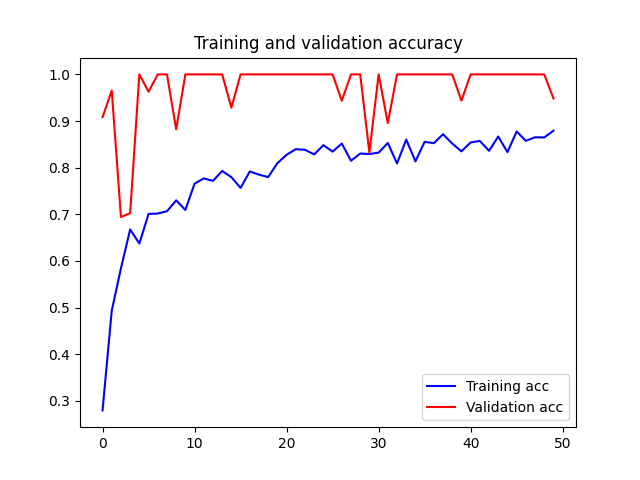
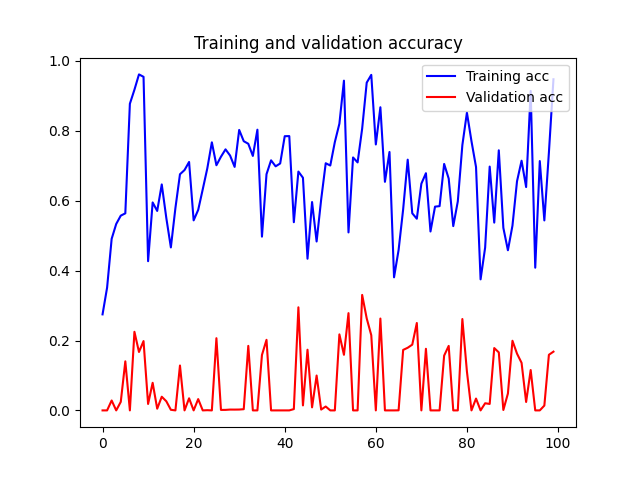
feat: addded inference method

diff --git a/driver.py b/driver.py
@@ -1,14 +1,66 @@
 import time
 import numpy as np
 from matplotlib import pyplot as plt
+from model import MobiFallNet
 
-timestamps = 30
-run_step = 2
+from model import MobiFallNet
+from DataGenerator import MobiFallGenerator
+import os
 
-batch_size = 30
-datadim = 4
-nb_classes = 13
-x_train = np.random.random((batch_size, timestamps, datadim))
+ROOT_DIRECTORY = os.getcwd()
+
+label_map = {
+    'STD': 0,
+    'WAL': 1,
+    'JOG': 2,
+    'JUM': 3,
+    'STU': 4,
+    'STN': 5,
+    'SCH': 6,
+    'CSI': 7,
+    'CSO': 8,
+    'FOL': 9,
+    'FKL': 10,
+    'BSC': 11,
+    'SDL': 12
+}
+
+label_map = list(label_map.keys())
+# ['STD', 'WAL', 'JOG', 'JUM', 'STU', 'STN', 'SCH', 'CSI', 'CSO', 'FOL', 'FKL', 'BSC', 'SDL']
+
+
+SENSOR_TO_TRAIN = ['acc', 'ori', 'gyro']
+
+n_timestamps = 30
+
+run_step = 1
+
+# train the network
+steps_per_epoch = 10
+epochs = 1
+batchsize = steps_per_epoch * epochs
+
+generator = MobiFallGenerator('./dataset/*/*/*/*/*.txt',
+                              train_for=SENSOR_TO_TRAIN[0],
+                              batch_size=batchsize,
+                              extract_data_size=n_timestamps,
+                              istrain=False,
+                              ratio=0.3)
+
+n_features = generator.get_features_count()
+n_category = generator.get_total_categories()
+
+input_shape = (n_timestamps, n_features)
+print("INPUT SHAPE =>{}".format(str(input_shape)))
+
+weights = os.path.join(os.path.join(ROOT_DIRECTORY, 'model'), 'weights.hdf5')
+model = MobiFallNet(input_shape=input_shape, n_outputs=n_category, pretrained_path=weights).get_model()
+
+
+# batch_size = 30
+# datadim = 4
+# nb_classes = 13
+# x_train = np.random.random((batch_size, timestamps, datadim))
 
 
 def update_show_data(data, step, update_data):
@@ -17,12 +69,11 @@ def update_show_data(data, step, update_data):
         data.append(update_data[i])
 
 
-def draw_flow(test_data, test_label):
-    data_size = test_data.shape[0]
-    x = [_ for _ in range(timestamps)]
-    ax = [0 for _ in range(timestamps)]
-    ay = [0 for _ in range(timestamps)]
-    az = [0 for _ in range(timestamps)]
+def draw_flow(test_data, label):
+    x = [_ for _ in range(n_timestamps)]
+    ax = [0 for _ in range(n_timestamps)]
+    ay = [0 for _ in range(n_timestamps)]
+    az = [0 for _ in range(n_timestamps)]
 
     start_time = time.time()
 
@@ -31,14 +82,20 @@ def draw_flow(test_data, test_label):
 
     plt.show()
 
-    steps = int(timestamps / run_step)
+    steps = int(n_timestamps / run_step)
 
     for i in range(steps):
 
         if i < steps:
-            # predict = run.run(test_data[i * run_step - timestamps: i * run_step, :])
-            title = 'correct:' + 'Correct' + '     predict:' + 'Predicted'
+            # prediction = model.predict(np.array([[test_data]]))  # check input shape {batch size, timestamps, features}
+            prediction = model.predict(np.array([test_data]))  # check input shape {batch size, timestamps, features}
 
+            # predict = run.run(test_data[i * run_step - timestamps: i * run_step, :])
+            title = 'correct: {}    predict: {}'.format(label_map[np.argmax(label)], label_map[np.argmax(prediction)])
+
+            # update_show_data(ax, run_step, test_data[i * run_step:i * run_step + run_step, 0])
+            # update_show_data(ay, run_step, test_data[i * run_step:i * run_step + run_step, 1])
+            # update_show_data(az, run_step, test_data[i * run_step:i * run_step + run_step, 2])
             update_show_data(ax, run_step, test_data[i * run_step:i * run_step + run_step, 0])
             update_show_data(ay, run_step, test_data[i * run_step:i * run_step + run_step, 1])
             update_show_data(az, run_step, test_data[i * run_step:i * run_step + run_step, 2])
@@ -51,8 +108,10 @@ def draw_flow(test_data, test_label):
             plt.title(title)
             plt.draw()
             plt.pause(0.001)
-            during = str(time.time() - start_time)
-            print('Inference Time', during)
+            inference_time = str(time.time() - start_time)
+            print('Inference Time', inference_time)
 
 
-draw_flow(x_train[0], '')
+x, y = generator.get_batch(30, True)
+for i in range(len(x)):
+    draw_flow(x[i], y[i])

diff --git a/train.py b/train.py
@@ -8,11 +8,11 @@ ROOT_DIRECTORY = os.getcwd()
 
 SENSOR_TO_TRAIN = ['acc', 'ori', 'gyro']
 
-n_timestamps = 10
+n_timestamps = 30
 
 # train the network
-steps_per_epoch = 20
-epochs = 2
+steps_per_epoch = 50
+epochs = 100
 batchsize = steps_per_epoch * epochs
 
 generator = MobiFallGenerator('./dataset/*/*/*/*/*.txt',
@@ -21,13 +21,6 @@ generator = MobiFallGenerator('./dataset/*/*/*/*/*.txt',
                               extract_data_size=n_timestamps,
                               istrain=True,
                               ratio=0.3)
-
-validation_generator = MobiFallGenerator('./dataset/*/*/*/*/*.txt',
-                                         train_for=SENSOR_TO_TRAIN[0],
-                                         batch_size=batchsize,
-                                         extract_data_size=n_timestamps,
-                                         istrain=False,
-                                         ratio=0.3)
 
 n_features = generator.get_features_count()
 n_category = generator.get_total_categories()
@@ -39,20 +32,19 @@ model = MobiFallNet(input_shape=input_shape, n_outputs=n_category).get_model()
 callbacks_list = [
     ModelCheckpoint(os.path.join('model', 'weights.hdf5'), monitor='loss', verbose=1, save_best_only=True, mode='auto',
                     save_weights_only='True'),
-    generator,
-    validation_generator]
+    generator]
 
 history = model.fit_generator(generator.next_train(),
                               steps_per_epoch=steps_per_epoch,
                               epochs=epochs,
                               verbose=1,
                               callbacks=callbacks_list,
-                              validation_data=validation_generator.next_val(),
-                              validation_steps=int((steps_per_epoch // 4)),
+                              validation_data=generator.next_val(),
+                              validation_steps=int((steps_per_epoch // 3)),
                               validation_freq=1,
                               max_queue_size=10,
                               workers=1,
-                              use_multiprocessing=True,
+                              use_multiprocessing=False,
                               shuffle=False,
                               initial_epoch=0)
 

diff --git a/DataGenerator.py b/DataGenerator.py
@@ -189,23 +189,31 @@ class MobiFallGenerator(keras.callbacks.Callback):
             ret = self.get_batch(self.batch_size, False)
             yield ret
 
-    def get_test_data(self):
+    def get_test_data(self, subject_id = None):
         """
         x shape = [datasize, 3]
         y shape = [data-size ,1]
         :return:
         """
 
-        target_df = self._all_data[(self._all_data['subject_id'] == self._target_subject_id)].sort_values(
-            by=self.common_cols, ascending=[True, True, True, True])
+        if subject_id == None:
+            target_df = self._all_data[(self._all_data['subject_id'] == self._target_subject_id)].sort_values(
+                by='timestamp', ascending=True)
+        else:
+            target_df = self._all_data[(self._all_data['subject_id'] == str(subject_id))].sort_values(
+                by='timestamp', ascending=True)
 
+        self.cols_to_train.remove('timestamp')
         col_indexes = [target_df.columns.get_loc(column) for column in self.cols_to_train]
         col_indexes.sort()
-        x = np.array(target_df.iloc[0:10, col_indexes].values)
-        y = target_df.iloc[0:10, target_df.columns.get_loc("activity")]
-        y = y.apply(lambda row: self.label_to_numeric(row))
-        y = np.array(y.values)
-        return x, to_categorical(y)
+        train_x = []
+        train_y = []
+        for index, rows in target_df.iterrows():
+            train_x.append(rows[col_indexes].values)
+            train_y.append(
+                to_categorical(self.label_to_numeric(rows['activity']), num_classes=self.get_total_categories()))
+
+        return np.asarray(train_x).astype(np.float32), np.asarray(train_y)
 
     def on_epoch_begin(self, epoch, logs={}):
         # pass all the subjects one by with all the activities one by one

diff --git a/model.py b/model.py
@@ -7,12 +7,18 @@ class MobiFallNet(object):
 
     def __init__(self, input_shape, n_outputs, pretrained_path=None):
         self.model = Sequential()
-        self.model.add(LSTM(100, input_shape=input_shape))
-        self.model.add(Dropout(0.5))
+        self.model.add(LSTM(100, input_shape=input_shape, return_sequences=True))
+        self.model.add(Dropout(0.2))
+        self.model.add(LSTM(100))
+        self.model.add(Dropout(0.2))
         self.model.add(Dense(100, activation='relu'))
         self.model.add(Dense(n_outputs, activation='softmax'))
+
+        if pretrained_path != None:
+            self.model.load_weights(pretrained_path)
+            print('Loading weights from {}'.format(pretrained_path))
         optimizer = SGD(lr=0.01, nesterov=True)
-        self.model.compile(loss='categorical_crossentropy', optimizer=optimizer, metrics=['accuracy'])
+        self.model.compile(loss='categorical_crossentropy', optimizer='adam', metrics=['accuracy'])
 
     def get_model(self):
         print(self.model.summary())

diff --git a/shape_test.py b/shape_test.py
@@ -1,7 +1,10 @@
 import numpy as np
+
+from model import MobiFallNet
+
 batch_size = 10
 timesteps = 1
-datadim = 4
+datadim = 3
 nb_classes = 13
 x_train = np.random.random((batch_size, timesteps, datadim))
 
@@ -30,3 +33,13 @@ label_map = {
 
 
 print(list(label_map)[5])
+n_features = 3
+n_category = 13
+n_timestamps = 30
+input_shape = (n_timestamps, n_features)
+model = MobiFallNet(input_shape=input_shape, n_outputs=n_category).get_model()
+print(model.input)
+
+prediction = model.predict(np.array([x_train[0]]))
+print(prediction)
+print(np.argmax(prediction))
